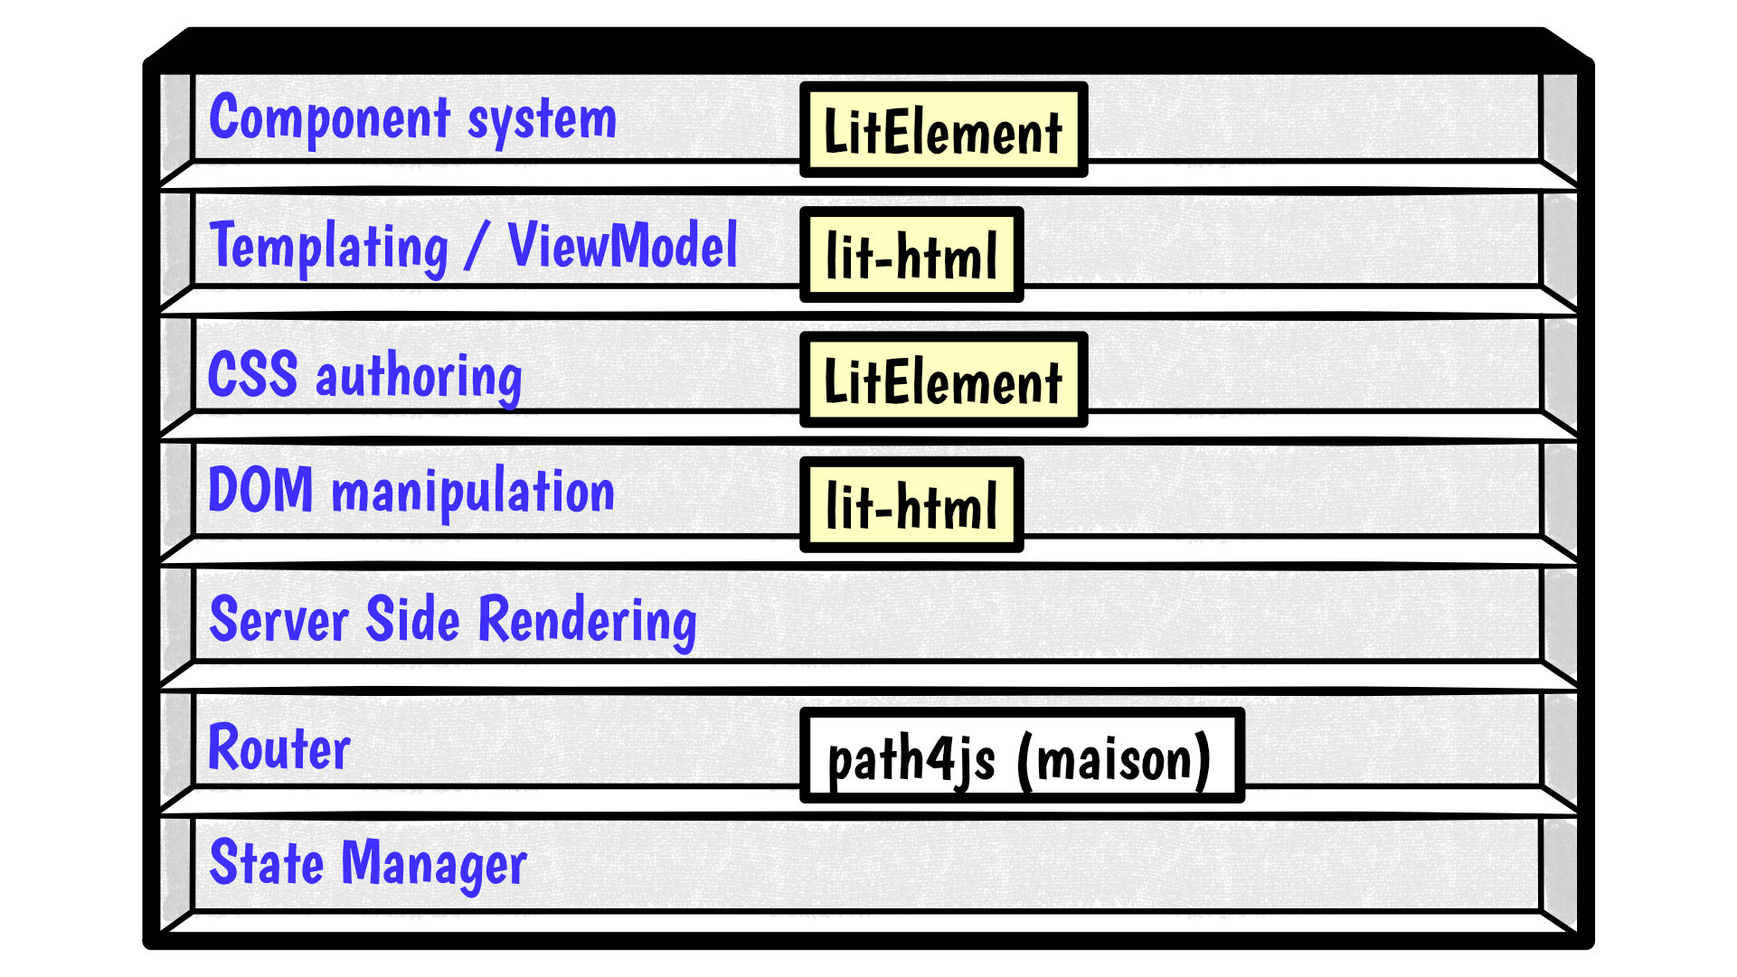
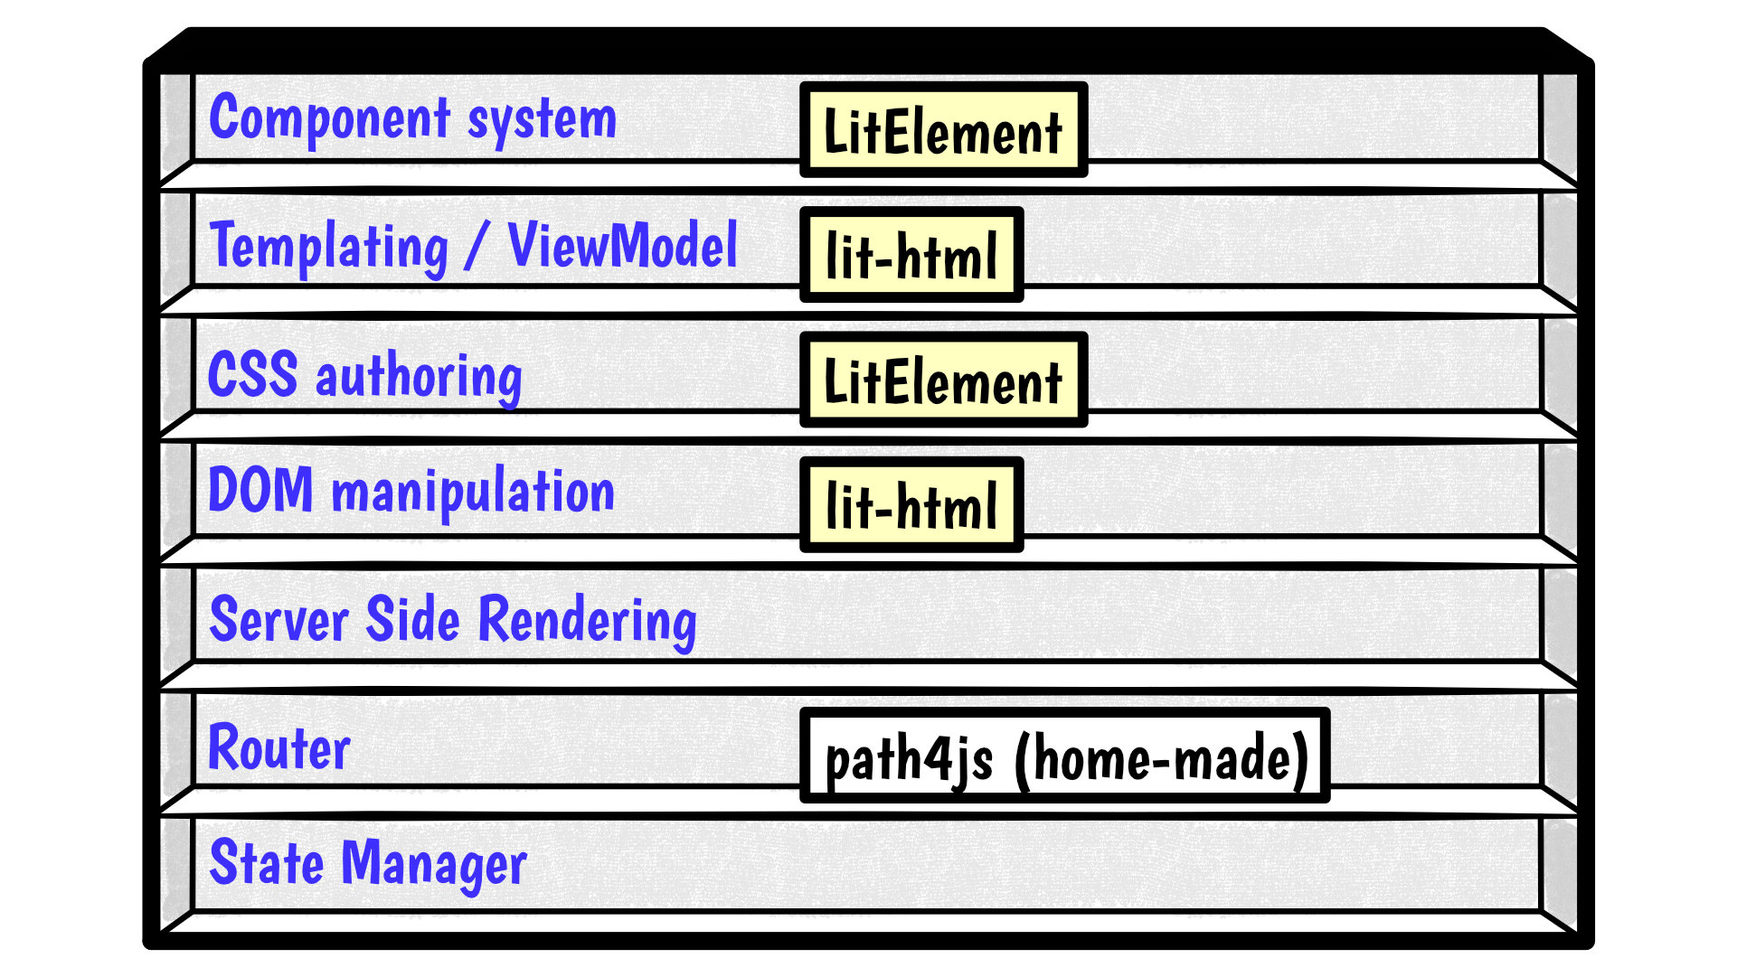
--wip--

Changed region(s): [[0.4685, 0.7021, 0.7808, 0.8242]]

diff --git a/src/index.en.html b/src/index.en.html
@@ -1671,34 +1671,34 @@ parent.appendChild(awesome)
 <section class="slide" data-slide="blank" data-sourceline="932" >
   
 </section>
-<div class="notes">Now that we deconstructed the different solutions frameworks and standards bring,<br>I think we have a better vision of the different layers that compose a Web project.<br>It&#8217;s pretty hard to do it well, but this vision should help us to write&#8230;&#8203;</div>
-<section class="slide" data-slide="section" data-sourceline="939" >
+<div class="notes">Web Components will not "replace" your frameworks.<br>Their scope is not exactly the same, but current ecosystem will evolve and new one will rise.<br>Now that we deconstructed the different solutions frameworks and standards bring,<br>I think we have a better vision of the different layers that compose a Web project.<br>It&#8217;s pretty hard to do it well, but this vision should help us to write code that will age well,<br>and for this we need&#8230;&#8203;</div>
+<section class="slide" data-slide="section" data-sourceline="942" >
   
     <div class="pretitle"></div>
     <div class="title" >A <strong>SOLID</strong> Web!</div>
     
   
-</section><div class="notes"><span class="time">00:30:00</span><br>&#8230;&#8203;code that will age well and for this we need good old software practices,<br>battle-tested patterns that will help us to separate concerns and limit coupling between layers.</div>
-<section class="slide" data-slide="quote" data-sourceline="946" >
+</section><div class="notes"><span class="time">00:30:00</span><br>&#8230;&#8203;good old software practices,<br>battle-tested patterns that will help us to separate concerns and limit coupling between layers.</div>
+<section class="slide" data-slide="quote" data-sourceline="949" >
   <div class="quote"><span class="one-line">Code should be disposable,<br>it&#8217;s far easier to do when<br>things are decoupled.</span></div>
 </section>
-<section class="slide logo" data-slide="media" data-sourceline="950" >
+<section class="slide logo" data-slide="media" data-sourceline="953" >
   <img class="element" src="img/cc-rocket-man.png">
   
   <figcaption class="caption">Our context at <strong>Clever Cloud</strong></figcaption>
 </section>
 <div class="notes">&#8230;&#8203;chez Clever Cloud,<br>en espérant que ça vous donne des idées pour votre contexte et votre stack.</div>
-<section class="slide" data-slide="blank" data-sourceline="957" data-viewport="1">
+<section class="slide" data-slide="blank" data-sourceline="960" data-viewport="1">
   
 </section>
 <div class="notes">Démo console<br>ça c&#8217;est ce qu&#8217;on appelle notre console,<br>c&#8217;est le tableau de bord qui permet à nos clients d&#8217;administrer leurs apps, leurs bdd, leurs addons&#8230;&#8203;<br>montrer la console web en démo<br>(écran overview)<br>citer logs, monitoring&#8230;&#8203;<br>(switcher sur les vars d&#8217;env)</div>
-<section class="slide" data-slide="media" data-sourceline="967" >
+<section class="slide" data-slide="media" data-sourceline="970" >
   <img class="element" src="img/drawings/bookshelf-cc-before.jpg">
   
   
 </section>
-<div class="notes">la stack Clever<br>&#8230;&#8203;<br>codebase qui a 7 ans<br>Component system (séparation du code mais pas d&#8217;API ni de système runtime)<br>Templating (lodash)<br>CSS (global) avec qq règle de nommage parfois<br>DOM (jquery + bacon)<br>Pas de SSR<br>Router maison (merci quentin)<br>Pas vrmt de state manager (bacon)</div>
-<section class="slide" data-slide="web-components" data-sourceline="982" >
+<div class="notes">Clever stack<br>&#8230;&#8203;<br>7 years old<br>Component system (code separation but no clear API nor real runtime system)<br>Templating (lodash)<br>CSS (global) avec with a few rules like BEM<br>DOM (jquery + bacon)<br>No SSR<br>Home made router (merci quentin)<br>No real state manager (bacon)</div>
+<section class="slide" data-slide="web-components" data-sourceline="985" >
   
     <div class="title">Our needs</div>
     <ul><li class="hidden">👋 Goodbye (Bacon.js + lodash templates)</li>
@@ -1708,7 +1708,7 @@ parent.appendChild(awesome)
 <li class="hidden">🔢 Introduce new tools feature by feature</li></ul>
   
 </section>
-<section class="slide" data-slide="web-components" data-sourceline="990" >
+<section class="slide" data-slide="web-components" data-sourceline="993" >
   
     <div class="title">Our needs</div>
     <ul><li >👋 Goodbye (Bacon.js + lodash templates)</li>
@@ -1718,7 +1718,7 @@ parent.appendChild(awesome)
 <li class="hidden">🔢 Introduce new tools feature by feature</li></ul>
   
 </section>
-<section class="slide" data-slide="web-components" data-sourceline="998" >
+<section class="slide" data-slide="web-components" data-sourceline="1001" >
   
     <div class="title">Our needs</div>
     <ul><li >👋 Goodbye (Bacon.js + lodash templates)</li>
@@ -1728,7 +1728,7 @@ parent.appendChild(awesome)
 <li class="hidden">🔢 Introduce new tools feature by feature</li></ul>
   
 </section>
-<section class="slide" data-slide="web-components" data-sourceline="1006" >
+<section class="slide" data-slide="web-components" data-sourceline="1009" >
   
     <div class="title">Our needs</div>
     <ul><li >👋 Goodbye (Bacon.js + lodash templates)</li>
@@ -1738,7 +1738,7 @@ parent.appendChild(awesome)
 <li class="hidden">🔢 Introduce new tools feature by feature</li></ul>
   
 </section>
-<section class="slide" data-slide="web-components" data-sourceline="1014" >
+<section class="slide" data-slide="web-components" data-sourceline="1017" >
   
     <div class="title">Our needs</div>
     <ul><li >👋 Goodbye (Bacon.js + lodash templates)</li>
@@ -1748,7 +1748,7 @@ parent.appendChild(awesome)
 <li class="hidden">🔢 Introduce new tools feature by feature</li></ul>
   
 </section>
-<section class="slide" data-slide="web-components" data-sourceline="1022" >
+<section class="slide" data-slide="web-components" data-sourceline="1025" >
   
     <div class="title">Our needs</div>
     <ul><li >👋 Goodbye (Bacon.js + lodash templates)</li>
@@ -1758,40 +1758,40 @@ parent.appendChild(awesome)
 <li >🔢 Introduce new tools feature by feature</li></ul>
   
 </section>
-<div class="notes">sur certaines parties de l&#8217;app, on avait déjà un modèle<br>comme les frameworks moderne avec un one way data flow<br>je modifie de la donnée, ça par dans un stream bacon et ça modifie le DOM<br>on a un peu atteint les limites de ce modèle bacon + lodash (perfs et modèle de pensée)<br>on a isolé les "modules" dans des fichiers mais on a du CSS global et on a pas d&#8217;interface clairement définie sur nos composants<br>on va avoir besoin que notre UI soit réutilisée en marque blanche ou marque grise<br>du coup, on doit pouvoir fournir certains parties de manière indépendantes un peu comme des légos<br>&#8230;&#8203;<br>on va introduire des nouvelles technos feature après feature<br>le fait que notre code n&#8217;était pas enfermé dans un framework nous facilite cette migration<br>Les commentaires, c&#8217;est pour tes collègues, mais c&#8217;est surtout pr toi dans 6 mois un an. Les composants Web c&#8217;est pareil. C&#8217;est pour que des tiers puissent les utiliser dans d&#8217;autres contextes et pour que toi tu puisses changer ta stack dans 6 mois.</div>
-<section class="slide" data-slide="text" data-sourceline="1042" >
+<div class="notes">sur certaines parties de l&#8217;app, on avait déjà un modèle<br>comme les frameworks moderne avec un one way data flow<br>je modifie de la donnée, ça par dans un stream bacon et ça modifie le DOM<br>on a un peu atteint les limites de ce modèle bacon + lodash (perfs et modèle de pensée)<br>on a isolé les "modules" dans des fichiers mais on a du CSS global et on a pas d&#8217;interface clairement définie sur nos composants<br>on va avoir besoin que notre UI soit réutilisée en marque blanche ou marque grise<br>du coup, on doit pouvoir fournir certains parties de manière indépendantes un peu comme des légos<br>&#8230;&#8203;<br>on va introduire des nouvelles technos feature après feature<br>le fait que notre code n&#8217;était pas enfermé dans un framework nous facilite cette migration<br><strong>Code comments are for your colleagues but also for yourself in 6 months or a year.</strong><br><strong>Web Components are the same, they should be designed in a reusable way so third parties can reuse them but also so you can use them in a different stack tomorrow</strong></div>
+<section class="slide" data-slide="text" data-sourceline="1046" >
   <div><span class="one-line">Design phase:<br>from <strong>top</strong> to <strong>bottom</strong></span></div>
 </section>
-<section class="slide" data-slide="text" data-sourceline="1048" >
+<section class="slide" data-slide="text" data-sourceline="1052" >
   <div><span class="one-line">Development phase:<br>from <strong>bottom</strong> to <strong>top</strong></span></div>
 </section>
 <div class="notes">les enfants ne savent pas qui les utilisent<br>mais ils ont une idées de comment ils seront utilisés ou plutôt de ce qu&#8217;ils doivent faire<br>les parents savent à quoi servent leur enfants mais ne se soucis pas de comment ça marche à l&#8217;interieur<br>tu ne sais pas qu&#8217;il y a un router<br>tu ne sais pas qu&#8217;il y a un state manager<br>tu ne sais pas d&#8217;où vient la donnée</div>
-<section class="slide" data-slide="text" data-sourceline="1058" >
+<section class="slide" data-slide="text" data-sourceline="1062" >
   <div><strong>Storybook</strong> <strong>D</strong>riven <strong>D</strong>evelopment</div>
 </section>
 <div class="notes">YOU NEED A DESIGN SYSTEM</div>
-<section class="slide" data-slide="media" data-sourceline="1063" >
+<section class="slide" data-slide="media" data-sourceline="1067" >
   <img class="element" src="img/talk-storybook-ml-thuret.en.jpg">
   
   
 </section>
-<section class="slide" data-slide="blank" data-sourceline="1066" data-viewport="2">
+<section class="slide" data-slide="blank" data-sourceline="1070" data-viewport="2">
   
 </section>
 <div class="notes">DÉMO: le storybook de clever<br>montrer les boutons avec leur interface<br>montrer le composant env-var-input<br>montrer le composant env-var-editor-simple<br>montrer le composant env-var-editor-expert<br>expliquer qu&#8217;ils ont la même signature et son donc très facilement interchangeable aux yeux du parent</div>
-<section class="slide" data-slide="media" data-sourceline="1075" >
+<section class="slide" data-slide="media" data-sourceline="1079" >
   <img class="element" src="img/drawings/bookshelf-cc-after.jpg">
   
   
 </section>
 <div class="notes">: web component pour la réutilisabilité et le côté agnostique du fwk et l&#8217;aspect standard<br>: lit-element + lit-html (petites libs)<br>: on en a testé d&#8217;autres mais celles si nous convenait le mieux</div>
-<section class="slide dark" data-slide="media" data-sourceline="1081" >
+<section class="slide dark" data-slide="media" data-sourceline="1085" >
   <div class="browser">
     <figcaption class="url"><a href="https://lit-html.polymer-project.org/" target="_blank" rel="noopener">https://lit-html.polymer-project.org/</a></figcaption>
     <img class="element" src="img/screenshots/site-lit-html.jpg">
   </div>
 </section>
-<section class="slide" data-slide="listing" data-sourceline="1085" >
+<section class="slide" data-slide="listing" data-sourceline="1089" >
   <div class="title">lit-html</div>
 <pre class="codeBlock" data-lang="javascript">
 <span class="hljs-keyword">import</span> { html, render } <span class="hljs-keyword">from</span> <span class="hljs-string">'lit-html'</span>;
@@ -1804,13 +1804,13 @@ parent.appendChild(awesome)
 render(envVarInput({ <span class="hljs-attr">name</span>: <span class="hljs-string">'FOO'</span>, <span class="hljs-attr">value</span>: <span class="hljs-string">'BAR'</span> }), someDomNode);
 </pre>
 </section>
-<section class="slide dark" data-slide="media" data-sourceline="1096" >
+<section class="slide dark" data-slide="media" data-sourceline="1100" >
   <div class="browser">
     <figcaption class="url"><a href="https://lit-element.polymer-project.org/" target="_blank" rel="noopener">https://lit-element.polymer-project.org/</a></figcaption>
     <img class="element" src="img/screenshots/site-lit-element.jpg">
   </div>
 </section>
-<section class="slide" data-slide="listing" data-sourceline="1100" >
+<section class="slide" data-slide="listing" data-sourceline="1104" >
   <div class="title">LitElement</div>
 <pre class="codeBlock" data-lang="javascript">
 <span class="hljs-keyword">import</span> { LitElement, html } <span class="hljs-keyword">from</span> <span class="hljs-string">'lit-element'</span>;
@@ -1827,18 +1827,18 @@ render(envVarInput({ <span class="hljs-attr">name</span>: <span class="hljs-stri
 customElements.define(<span class="hljs-string">'env-var-input'</span>, EnvVarInput);
 </pre>
 </section>
-<section class="slide" data-slide="media" data-sourceline="1124" >
+<section class="slide" data-slide="media" data-sourceline="1128" >
   <img class="element" src="img/drawings-optimized/layers-mixed-light.svg">
   
   
 </section>
-<section class="slide" data-slide="media" data-sourceline="1126" >
+<section class="slide" data-slide="media" data-sourceline="1130" >
   <img class="element" src="img/drawings-optimized/layers-light.svg">
   
   
 </section>
 <div class="notes">layer data aware<br>layer auth aware<br>elements qui font des appels REST</div>
-<section class="slide" data-slide="web-components" data-sourceline="1137" >
+<section class="slide" data-slide="web-components" data-sourceline="1141" >
   
     <div class="title">Reduce coupling with global stuffs</div>
     <ul><li >Router</li>
@@ -1850,73 +1850,73 @@ customElements.define(<span class="hljs-string">'env-var-input'</span>, EnvVarIn
 <li >Keyboard shortcuts</li></ul>
   
 </section>
-<section class="slide" data-slide="text" data-sourceline="1153" >
+<section class="slide" data-slide="text" data-sourceline="1157" >
   <div>Did we choose the <strong>right tool</strong>?</div>
 </section>
-<section class="slide osef" data-slide="text" data-sourceline="1156" >
+<section class="slide osef" data-slide="text" data-sourceline="1160" >
   <div><strong>IDGAS™</strong></div>
 </section>
-<section class="slide" data-slide="text" data-sourceline="1159" >
+<section class="slide" data-slide="text" data-sourceline="1163" >
   <div>Not the <strong>right</strong> question!</div>
 </section>
-<section class="slide" data-slide="text" data-sourceline="1162" >
+<section class="slide" data-slide="text" data-sourceline="1166" >
   <div><span class="one-line">How much does it <strong>cost</strong><br>to <strong>change</strong> our minds?</span></div>
 </section>
 <div class="notes">Did we choose the right tool, the right stack?<br>It&#8217;s not important,<br>What is important is will we be able to changed our mind and what will be the cost?<br>To that question, I would answer yes.<br>The choices we made required some new knowledge about Web Components but I can only bet that this will be helpful in the future,<br>The abstraction librairies we chose are small and simple to learn.<br>Rewriting them would have almost no impact on the rest.</div>
-<section class="slide" data-slide="blank" data-sourceline="1173" >
+<section class="slide" data-slide="blank" data-sourceline="1177" >
   
 </section>
 <div class="notes">The last question is:</div>
-<section class="slide" data-slide="section" data-sourceline="1177" >
+<section class="slide" data-slide="section" data-sourceline="1181" >
   
     <div class="pretitle"></div>
     <div class="title" >Looking&nbsp;into<br>the&nbsp;<strong>future</strong>&#8230;&#8203;</div>
     
   
 </section><div class="notes"><span class="time">00:40:00</span><br>what about the future?</div>
-<section class="slide" data-slide="text" data-sourceline="1183" >
+<section class="slide" data-slide="text" data-sourceline="1187" >
   <div><span class="one-line"><strong>Beware</strong> of those who<br>predict the future<strong>!</strong></span></div>
 </section>
-<section class="slide dark" data-slide="media" data-sourceline="1188" >
+<section class="slide dark" data-slide="media" data-sourceline="1192" >
   <div class="browser">
     <figcaption class="url"><a href="https://svelte.technology/blog/frameworks-without-the-framework" target="_blank" rel="noopener">https://svelte.technology/blog/frameworks-without-the-framework</a></figcaption>
     <img class="element" src="img/screenshots/article-frameworks-without-the-framework.jpg">
   </div>
 </section>
 <div class="notes">Vous pensez que 100k de JS, c&#8217;est pareil que 100k d&#8217;image &#8658; faux<br>Le JS est téléchargé, parsé, éxécuté, tout ça, ça prend du temps.</div>
-<section class="slide dark" data-slide="media" data-sourceline="1193" >
+<section class="slide dark" data-slide="media" data-sourceline="1197" >
   <div class="browser">
     <figcaption class="url"><a href="https://tomdale.net/2017/09/compilers-are-the-new-frameworks/" target="_blank" rel="noopener">https://tomdale.net/2017/09/compilers-are-the-new-frameworks/</a></figcaption>
     <img class="element" src="img/screenshots/article-compilers-are-the-new-frameworks.jpg">
   </div>
 </section>
-<section class="slide" data-slide="media" data-sourceline="1203" >
+<section class="slide" data-slide="media" data-sourceline="1207" >
   <img class="element" src="img/drawings/browser-12.jpg">
   
   
 </section>
-<section class="slide" data-slide="media" data-sourceline="1205" >
+<section class="slide" data-slide="media" data-sourceline="1209" >
   <img class="element" src="img/drawings/browser-13.jpg">
   
   
 </section>
-<section class="slide" data-slide="media" data-sourceline="1207" >
+<section class="slide" data-slide="media" data-sourceline="1211" >
   <img class="element" src="img/drawings/browser-14.jpg">
   
   
 </section>
 <div class="notes">framework runtime &#8658; compilers<br>schéma browser avec le code qui passe du runtime au build<br>bon ou mauvais ?<br>l&#8217;idéal serait que l&#8217;input du compiler fonctionne sans build step et que l&#8217;output soit optimisé aux petits oignons, comme ce qu&#8217;on fait quand on minifie<br>schéma browser avec le code qui passe du runtime et vers des implem du browser<br>&#8230;&#8203;<br>Convaincre les gens que :<br>Le passé se répète<br>Les outils vont et viennent<br>La constante, c&#8217;est le modèle des éléments du DOM (sorte de HDMI du Web)<br>Tout comme on a appris à apprendre mais on garde certaines bases fondamentales, ils faut capitaliser sur les bases fondamentales (le web et ses standards) et adopter des facilitants par dessus avec une courbe d&#8217;apprentissage</div>
-<section class="slide stop-music dark" data-slide="blank" data-sourceline="1229" >
+<section class="slide stop-music dark" data-slide="blank" data-sourceline="1233" >
   
 </section>
-<section class="slide old play-music" data-slide="section" data-sourceline="1232" >
+<section class="slide old play-music" data-slide="section" data-sourceline="1236" >
   
     <div class="pretitle"></div>
     <div class="title" >&#8230;&#8203;Epilogue</div>
     <video src="./videos/old-movie.webm" muted loop></video>
   
 </section><div class="notes"><span class="time">00:42:00</span></div>
-<section class="slide" data-slide="bubble" data-sourceline="1238" >
+<section class="slide" data-slide="bubble" data-sourceline="1242" >
   
     <div class="bubble-wrapper" data-position="right">
       <div class="bubble">So?</div>  
@@ -1925,28 +1925,28 @@ customElements.define(<span class="hljs-string">'env-var-input'</span>, EnvVarIn
   
 </section>
 <div class="notes">👩⚕ So? How was your group therapy?<br>😎 I don&#8217;t know, it didn&#8217;t have time to go into each details so instead,<br>I tried to share the way I see things so people can adapt to their own context.</div>
-<section class="slide" data-slide="problem" data-sourceline="1246" >
+<section class="slide" data-slide="problem" data-sourceline="1250" >
   <div>
     <div class="problem">Problem #1</div>
     <div class="text"><span class="one-line">Finding solutions<br>to problems we don&#8217;t have (yet)</span></div>
   </div>
 </section>
 <div class="notes">😎 For problem number 1,<br>I tried to insist and move the focus back on needs:<br>1. Needs of the people using the products we build<br>2. Needs of the development team who works on the project<br>&#8230;&#8203;<br>I mean nowadays, Web browsers have become those <strong>complex application platform/runtime</strong>.<br>Of course we need tools to reduce this complexity.<br>This idea is not to reinvent the wheel.<br>But, it&#8217;s not a reason to say or think that we all have the same contexts and the same priorities.<br>&#8230;&#8203;<br>I really hope people will get this reflex:<br>* "Oh look, new shiny tool!"<br>* "OK, what problem does it solve?"<br>* "Do I have this problem?"<br>and to rememeber :<br>* what you&#8217;re developing<br>* with whom you&#8217;re developing</div>
-<section class="slide" data-slide="problem" data-sourceline="1268" >
+<section class="slide" data-slide="problem" data-sourceline="1272" >
   <div>
     <div class="problem">Problem #2</div>
     <div class="text">Getting locked into our own ecosystem</div>
   </div>
 </section>
 <div class="notes">😎 I also tried to deconstruct the different features/solutions that the current top 3 ecosytems bring.<br>The main idea is to keep a sharp point of view and to have an horizontal vision instead of a narrowed vertical vision.<br>In my opinion and my own experience, having a better understanding of those parts really helps me NOT TO fear change.<br>I know how I could replace something with a better/simpler implementation or something smaller using a new standard.<br>In the end, all those frameworks, librairies and standards are just tools.<br>We just need to take it easy and stay professional,<br>that means using them for the great features they bring<br>and stop worshiping them blindly.<br>👩⚕ Oh, and you talked about TV+VCR combos?</div>
-<section class="slide" data-slide="problem" data-sourceline="1282" >
+<section class="slide" data-slide="problem" data-sourceline="1286" >
   <div>
     <div class="problem">Problem #3</div>
     <div class="text"><span class="one-line">Writing strongly coupled code<br>that does not age well with time</span></div>
   </div>
 </section>
 <div class="notes">😎 Yes, I tried to explain what we&#8217;re currently trying to do at Clever Cloud to reduce coupling between our components, modules and the various layers.<br>I explained what our approach brings us in our own context.<br>We didn&#8217;t invent anything, we&#8217;re just trying to apply good old software patterns to the modern Web.<br>And those are just principles, there are always exceptions.<br>The idea is not to triple your design costs just to write "beautiful code" but just to invest the minimum of energy to reduce the impact of time.</div>
-<section class="slide" data-slide="bubble" data-sourceline="1292" >
+<section class="slide" data-slide="bubble" data-sourceline="1296" >
   
     <div class="bubble-wrapper" data-position="left">
       <div class="bubble">Thanks doctor!</div>  
@@ -1955,7 +1955,7 @@ customElements.define(<span class="hljs-string">'env-var-input'</span>, EnvVarIn
   
 </section>
 <div class="notes">😎 Je vous remercie docteur, ça m&#8217;a bien aidé<br>😎 Thank you very much doctor, it really helped me,<br>and I also would like to thank every member of the group for listening to me to the end.</div>
-<section class="slide reset-music" data-slide="poster" data-sourceline="1300" >
+<section class="slide reset-music" data-slide="poster" data-sourceline="1304" >
   
   <div class="header">
     <div class="details">
